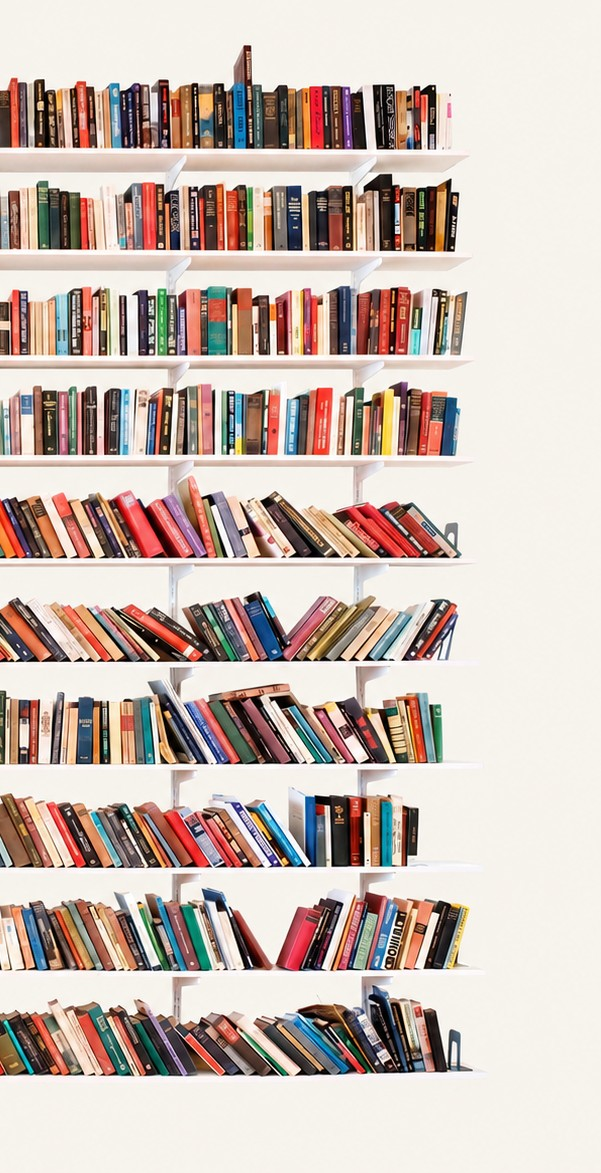
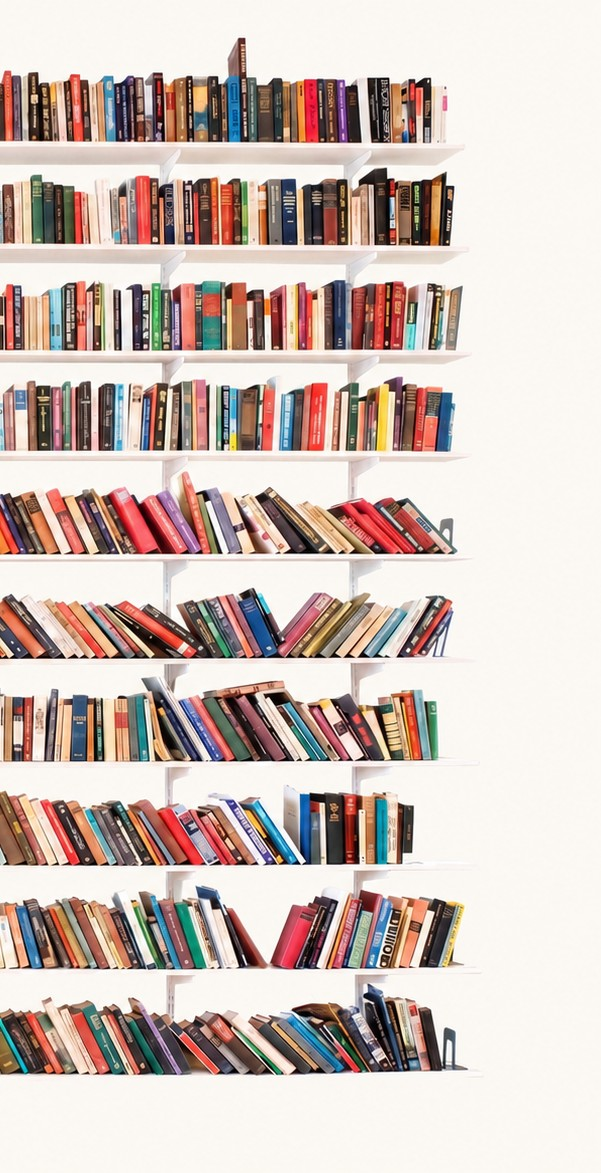
replace background color and add new shelf images

diff --git a/app/globals.css b/app/globals.css
@@ -55,7 +55,7 @@
   /* Boundaries & Outlines */
   --color-outline: #8b7169;
   --color-outline-variant: #dec0b6;
-  --color-background: #fbf9f5;
+  --color-background: #fbf8f2;
   --color-on-background: #1b1c1a;
   --color-border: #dec0b6;
 
@@ -106,11 +106,6 @@ body {
   width: 100%;
   overflow-x: hidden;
   position: relative;
-  background-image:
-    radial-gradient(circle at 12% 15%, rgba(255, 127, 80, 0.035) 0%, transparent 45%),
-    radial-gradient(circle at 88% 75%, rgba(62, 92, 118, 0.035) 0%, transparent 50%),
-    radial-gradient(circle at 50% 50%, rgba(234, 232, 228, 0.4) 0%, transparent 100%);
-  background-attachment: fixed;
 }
 
 /* Typography Classes */

diff --git a/DESIGN.md b/DESIGN.md
@@ -45,7 +45,7 @@ colors:
   tertiary-fixed-dim: '#abcae8'
   on-tertiary-fixed: '#001d31'
   on-tertiary-fixed-variant: '#2b4963'
-  background: '#fbf9f5'
+  background: '#fbf8f2'
   on-background: '#1b1c1a'
   surface-variant: '#e4e2de'
 typography:
